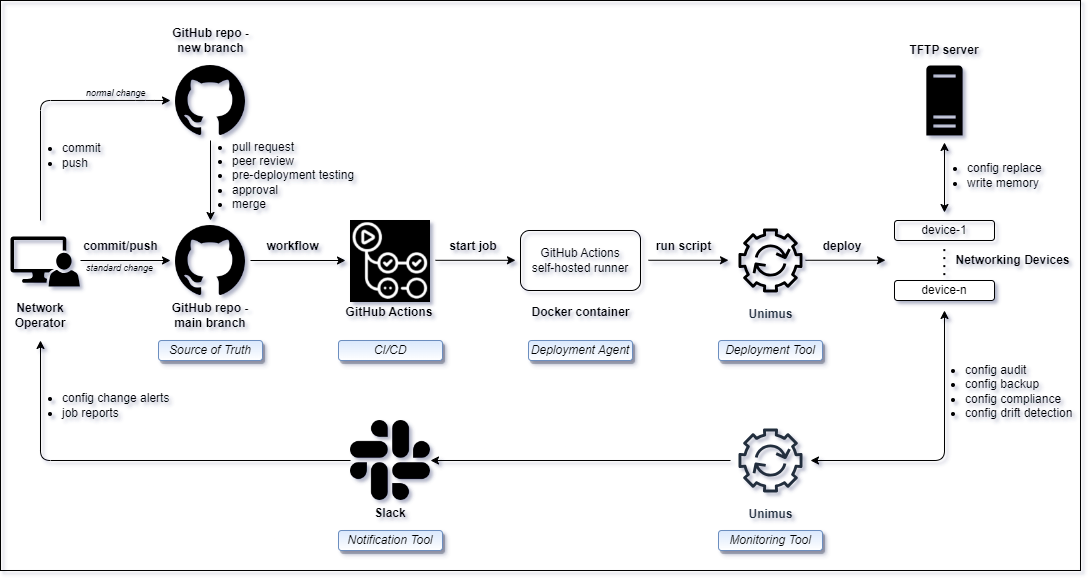
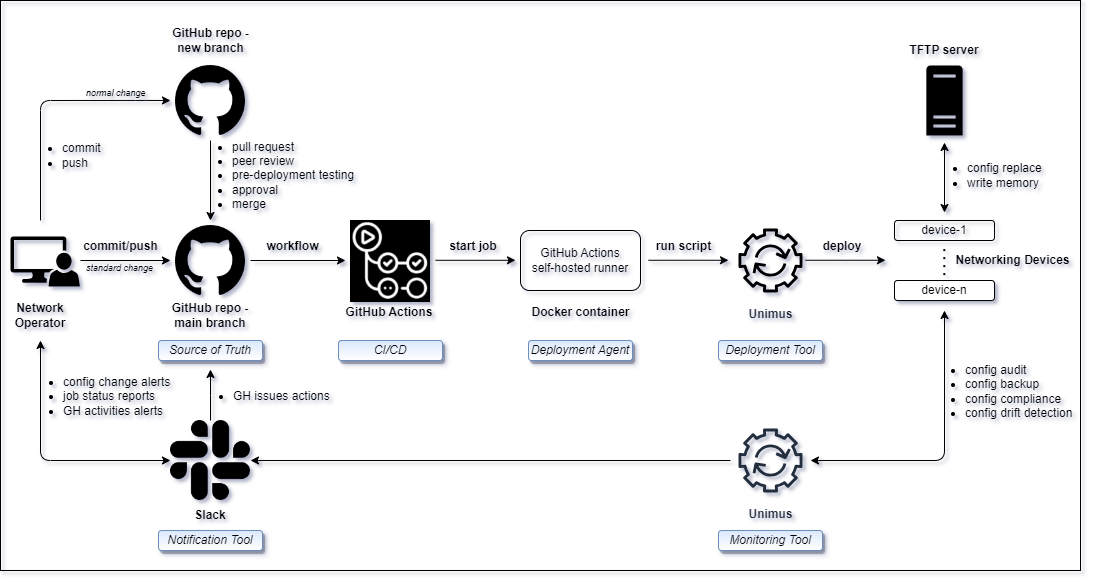
documentation and diagram update

diff --git a/README.md b/README.md
@@ -54,7 +54,7 @@ Network automation framework based on the following **[GitOps Principles](https:
 - Unimus continuously audits devices' operational state and generates alerts if config drift is detected
 - If a device's configuration is changed manually, network operator will get a Slack message describing the change which will intern automatically create a new GitHub issue
 - Operator can take action on the issue directly from Slack (assign, label, close, reopen)
-- Assigning a label will start GitHub actions workflow to restore the device's current state config to match it's desired state config as described in the GitHub repo
+- Assigning a label will start a corresponding GitHub actions workflow to restore the device's modified current state config to match it's desired state config as described in the GitHub repo
 
 
 ## Build
